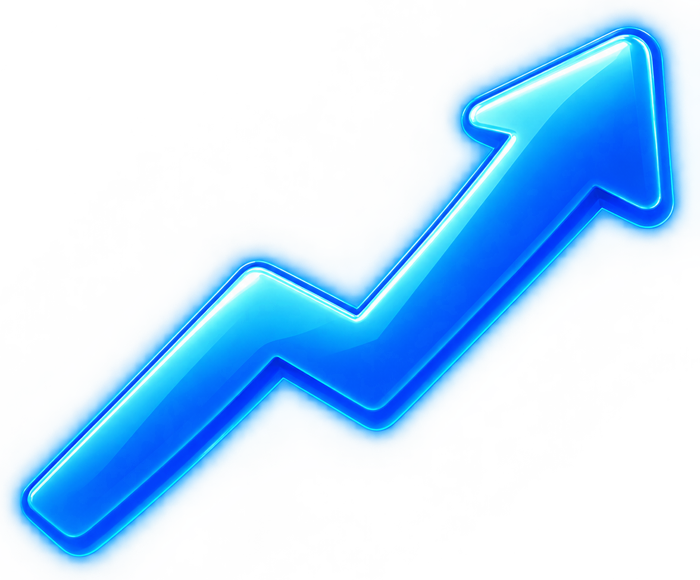
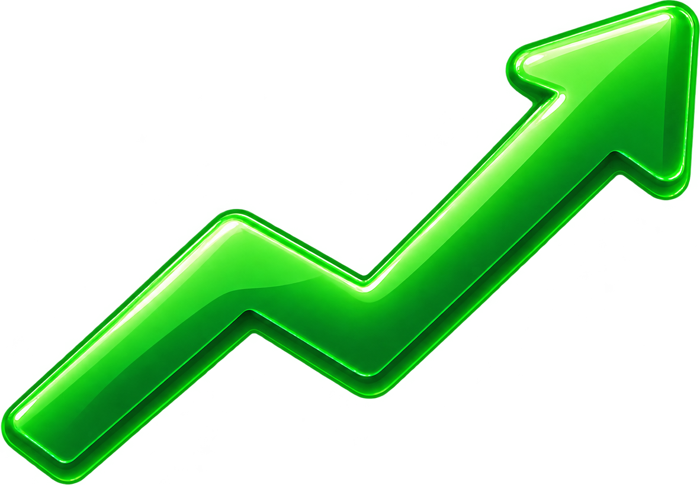
programme: fleche verte sur RPM, titre RPM plus a droite, mot miniature Astuces change

diff --git a/app/programme/page.tsx b/app/programme/page.tsx
@@ -39,7 +39,7 @@ const glowStyle = `
 .glow-sub { animation: glowPulseSub 2.5s ease-in-out infinite; }
 `;
 
-const MOTS_MINIATURE: {[id:number]:string} = {10:"Introduction", 11:"Mindset", 12:"Bases", 18:"Outils", 14:"Niche", 15:"30 niches", 26:"CapCut", 13:"Anonyme", 16:"Montage", 17:"Poster", 24:"Chaîne", 25:"Analyse", 19:"Monétisation", 20:"RPM", 21:"Astuces", 22:"Fiscalité"};
+const MOTS_MINIATURE: {[id:number]:string} = {10:"Introduction", 11:"Mindset", 12:"Bases", 18:"Outils", 14:"Niche", 15:"30 niches", 26:"CapCut", 13:"Anonyme", 16:"Montage", 17:"Poster", 24:"Chaîne", 25:"Analyse", 19:"Monétisation", 20:"RPM", 21:"Secrets", 22:"Fiscalité"};
 
 export default function Programme() {
   const router = useRouter();

diff --git a/app/globals.css b/app/globals.css
@@ -867,3 +867,6 @@ body::before {
 
 /* yma-titre-rpm : titre RPM (14) decale a 24px (etait 14px), PC et telephone */
 .grid > *:nth-child(14) [data-yma="yma-mini-test"][data-yma="yma-mini-test"] .yma-word { margin-left: 24px !important; }
+
+/* yma-titre-rpm-2 : titre RPM (14) decale a 34px (etait 24px), PC et telephone */
+.grid > *:nth-child(14) [data-yma="yma-mini-test"][data-yma="yma-mini-test"] .yma-word { margin-left: 34px !important; }
